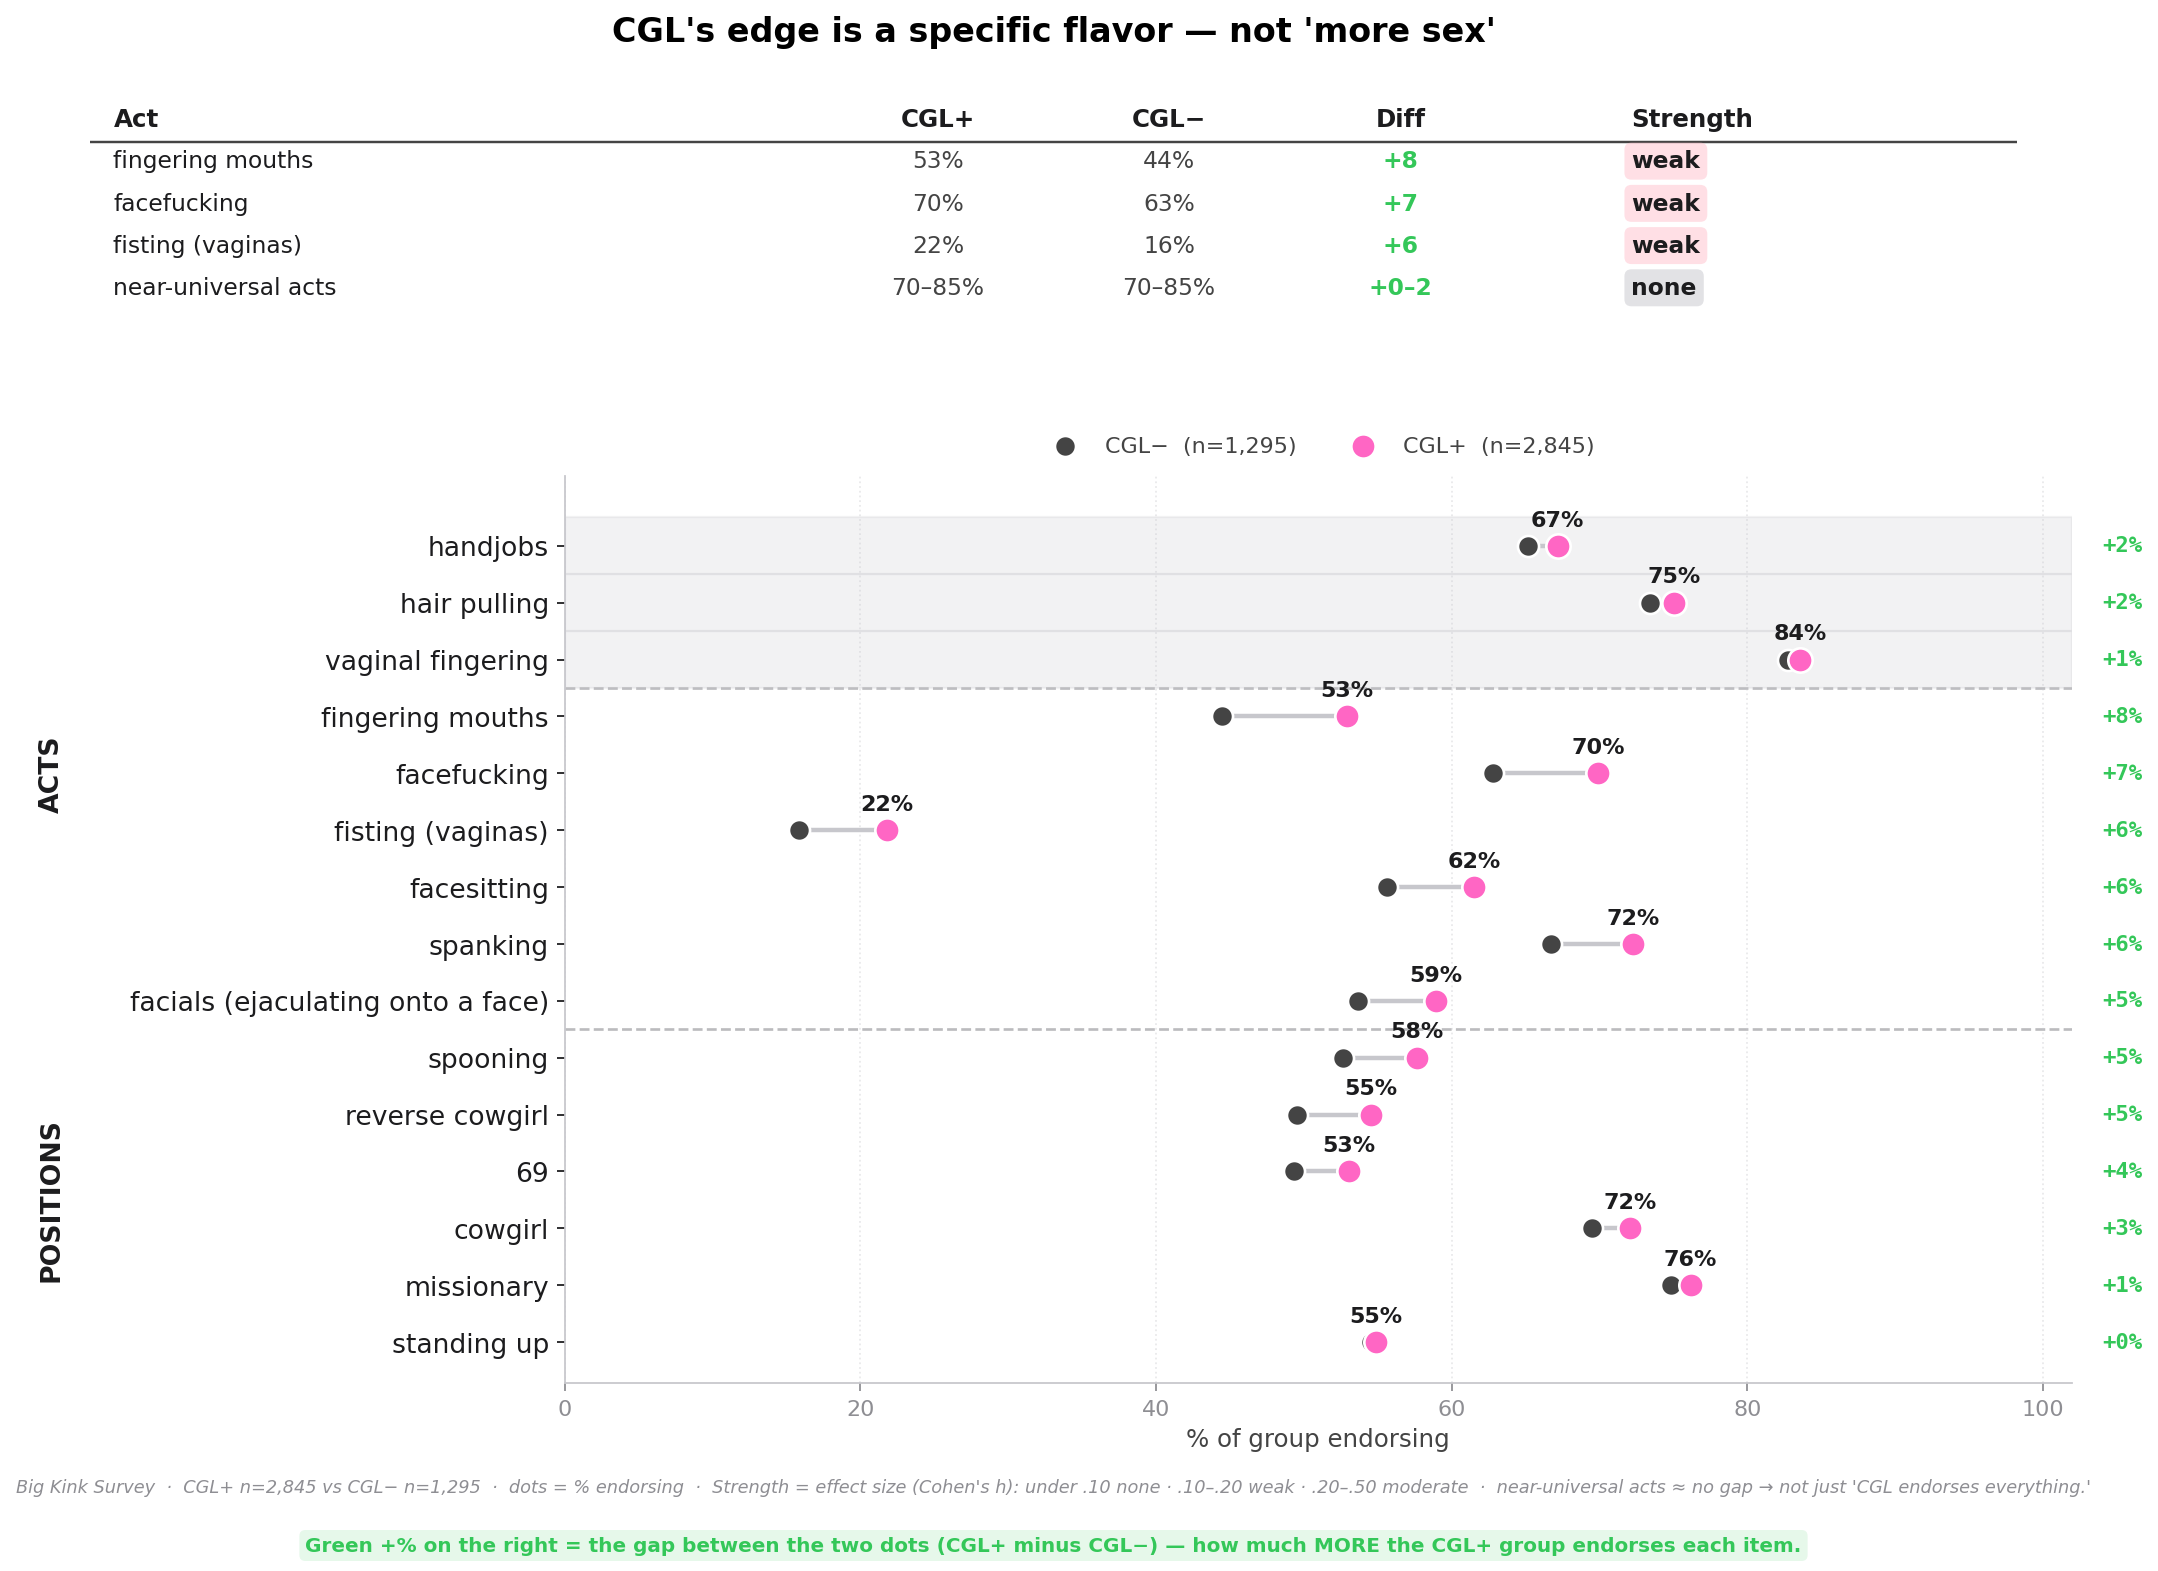
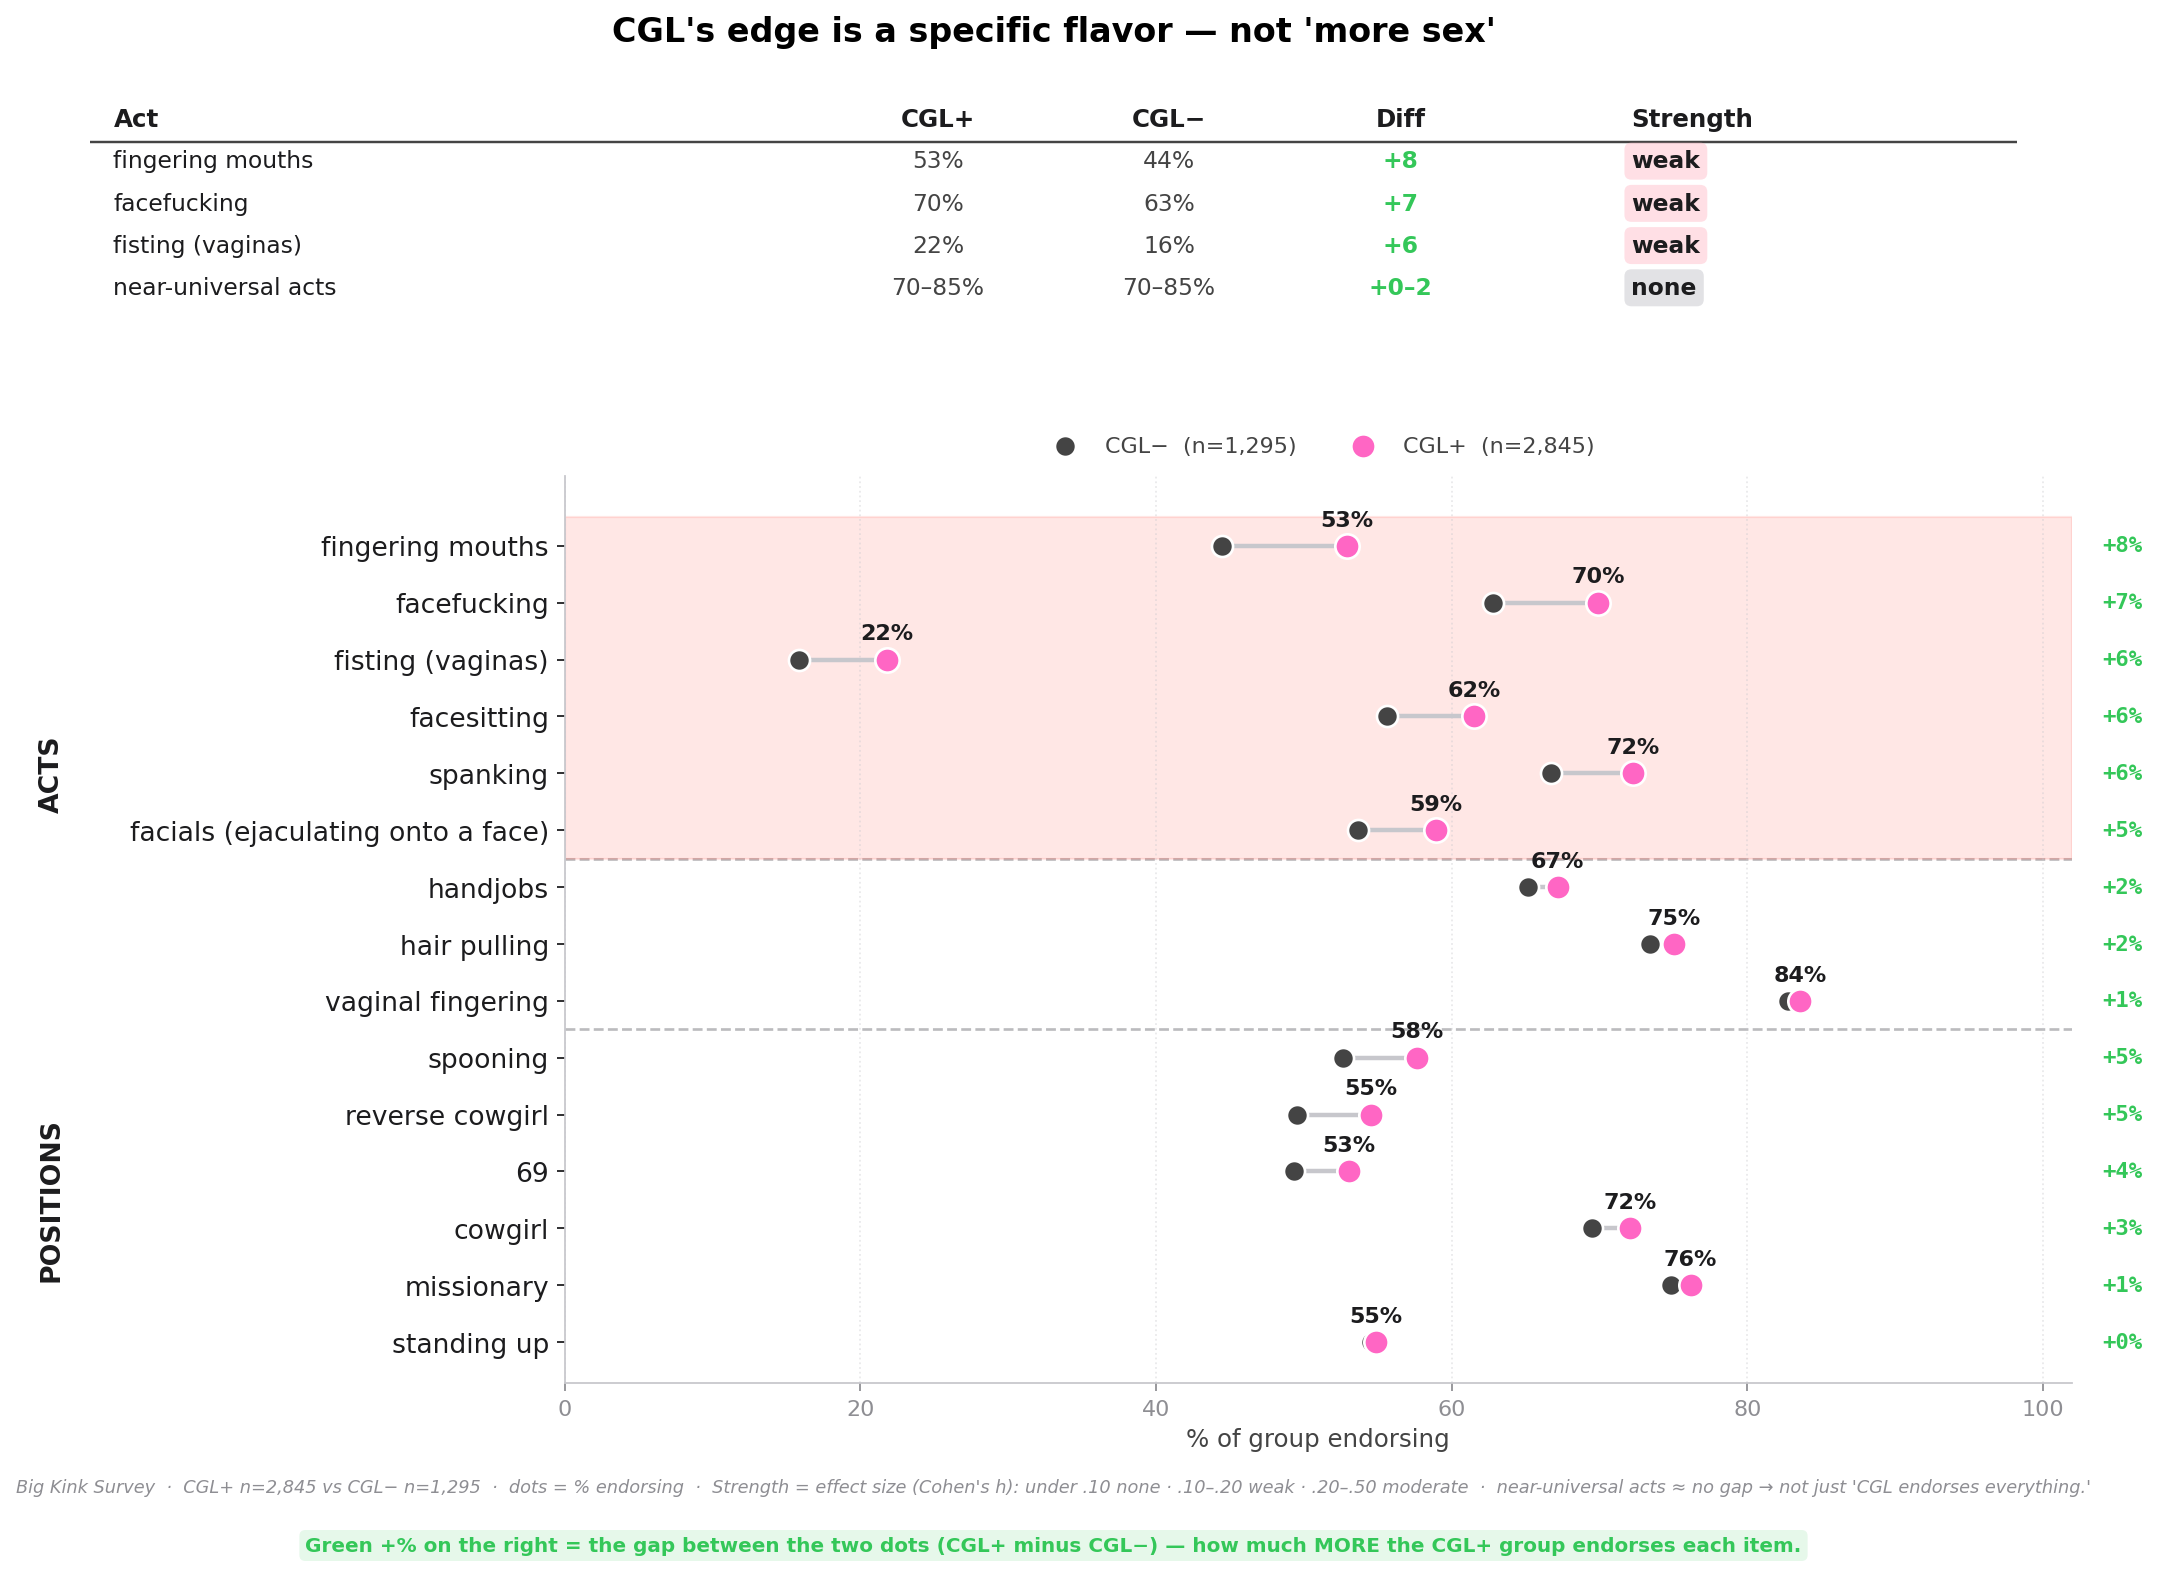
CGL report: prevalence!=patterning guidance; reorder NSFW-acts figure
- 1a report: add report-wide 'reading low percentages' guidance (prevalence
  vs patterning) + emotion-mirror low-share/consistent-shape callout.
- build_story_figures.py: stack distinctive acts ABOVE near-universal anchors
  (CGL's real edge reads at top); single red highlight band over the
  distinctive block instead of a shaded anchor band.

Changed region(s): [[0.0621, 0.3119, 0.9625, 0.655], [0.5589, 0.3119, 0.652, 0.3743], [0.8072, 0.6238, 0.8383, 0.655]]

diff --git a/build_story_figures.py b/build_story_figures.py
@@ -1087,19 +1087,20 @@ def figure_nsfw_acts_positions(nsfw: pd.DataFrame) -> pd.DataFrame:
                    .sort_values("gap", ascending=False).head(6).copy())
     pos_top = pos_stats.sort_values("gap", ascending=False).head(min(6, len(pos_stats))).copy()
 
-    # Stack bottom→top: positions · distinctive acts · near-universal anchors (flat, on top).
-    # Within each block, order by gap (numeric difference) — ascending sort puts the
-    # LARGEST gap at the TOP of its block (fingering mouths leads the distinctive acts;
-    # handjobs leads the near-universal ones).
+    # Stack bottom→top: positions · near-universal anchors (flat) · distinctive acts (on top).
+    # Distinctive acts (facefucking etc.) sit ABOVE the near-universal anchors (handjobs etc.)
+    # so CGL's real edge reads at the top. Within each block, order by gap (numeric
+    # difference) — ascending sort puts the LARGEST gap at the TOP of its block
+    # (fingering mouths leads the distinctive acts; handjobs leads the near-universal ones).
     pos_block = pos_top.sort_values("gap", ascending=True)
     dist_block = distinctive.sort_values("gap", ascending=True)
     anchor_block = anchors.sort_values("gap", ascending=True)
-    plot_df = pd.concat([pos_block, dist_block, anchor_block], ignore_index=True)
+    plot_df = pd.concat([pos_block, anchor_block, dist_block], ignore_index=True)
 
-    # Family-level geometry: keep both separators (baseline vs distinctive, acts vs
-    # positions), but label each family ONCE, centered, on the left.
+    # Family-level geometry: keep both separators (acts vs positions, anchors vs
+    # distinctive), but label each family ONCE, centered, on the left.
     sep_pos = len(pos_block) - 1
-    sep_dist = len(pos_block) + len(dist_block) - 1
+    sep_dist = len(pos_block) + len(anchor_block) - 1
     pos_label_y = (len(pos_block) - 1) / 2.0
     acts_label_y = (len(pos_block) + len(plot_df) - 1) / 2.0
 
@@ -1118,9 +1119,12 @@ def figure_nsfw_acts_positions(nsfw: pd.DataFrame) -> pd.DataFrame:
     )
     ax.set_xticks([0, 20, 40, 60, 80, 100])
 
-    # Shade the anchor band so the "flat baseline" reads at a glance.
-    for i in range(len(pos_block) + len(dist_block), len(plot_df)):
-        ax.axhspan(i - 0.5, i + 0.5, color=INK["hairline"], alpha=0.22, zorder=0)
+    # Highlight the top band — the distinctive face/mouth/control acts (CGL's real edge) — in red.
+    # One continuous span (like 6b's cluster band), NOT a per-row loop — adjacent spans
+    # leave faint seam lines between rows; a single span reads as one clean block.
+    dist_lo = len(pos_block) + len(anchor_block)
+    dist_hi = len(plot_df) - 1
+    ax.axhspan(dist_lo - 0.5, dist_hi + 0.5, color=SEMANTIC["bad"], alpha=0.12, zorder=0)
 
     # Summary table (top): the few acts that lead + the flat baseline, with strength.
     top3 = distinctive.sort_values("gap", ascending=False).head(3)

diff --git a/1a_CGL_Story_and_Report.md b/1a_CGL_Story_and_Report.md
@@ -39,6 +39,8 @@ CGL (Caregiving dynamics) is a **relational kink structured around one partner c
 
 **Multiple-comparison & CI policy.** The distribution/gap tables (Chapters 2, 4, 5, 6-endorsements) are **descriptive** — per-item effect sizes with no per-cell significance test, because the substantive question is *which items drive the difference*, not whether a 15-category table differs overall. The one place a formal family of tests is run — the 18-item **arousal scale** (Chapter 6) — carries **Benjamini-Hochberg FDR correction** and Wald 95% CIs on every odds ratio. CIs are reported where a test is run; gap tables are labeled descriptive.
 
+**Reading low percentages (prevalence ≠ patterning).** Many cells are small in absolute terms — single-pick items impose a 1/n floor (~20 emotions → even a *modal* pick caps ~25%), and multi-select items inherit low base rates. **A low % is not a weak signal.** Separate two quantities: *prevalence* (how common — the %) and *patterning* (does the signal align in the predicted direction, tightly estimated). The load-bearing evidence in every low-% table here is **patterning** — directional consistency (the D/S mirror, Ch. 2) and co-movement across linked items (the scene cluster, Ch. 6) — **not the height of any single bar**. Under chance, low cells scatter; here they align systematically, and at n ≈ 800–4,000 each cell is tightly estimated (95% CI ±0.7–2.8pp). ∴ low-but-consistent ⇒ a *reliable minority* signal: the licensed claim is "a consistent signal toward X," never "most respondents want X." ⚠ do **not** attach a "small sample / interpret with caution" hedge to these cells — n is large and CIs are narrow; the smallness lives in the *share*, not the *certainty*.
+
 ---
 
 ## Findings
@@ -362,6 +364,8 @@ Splitting CGL-positive respondents by D/S preference exposes the complementarity
 | Dominant (n=845)     |               5.8 |          14.8 |                 20.1 |              4.2 |
 
 _Cells are % among responders to each emotion item, so subgroup n's are the emotion-item responders within each D/S camp (sum ≈ the 2,777 who answered the D/S item)._
+
+> ⚠ **Low share, consistent shape — read the mirror, not the height.** Absolute shares are modest (top cells ~25%, off-direction cells 1.6–3.4%) — expected from a forced single pick over ~20 emotions, so these are *minority* top-picks, not majorities. The finding is the **role-flip mirror**: submissive self-powerless 25.7 / partner-powerful 24.7 ↔ dominant partner-powerless 20.1 / self-powerful 14.8, with the off-direction cells near-zero **and tightly estimated** (n ≈ 1,200; 95% CI ±0.7–1.0pp). Four cells flipping exactly by role is not noise — it is the asymmetry. Licensed claim: *a consistent complementary structure by role*, not *most CGL respondents want a given emotion*. (Per the report-wide low-% policy: prevalence ≠ patterning.)
 
 The submissive and dominant rows are near-perfect mirror images: each camp wants one party powerless and the other powerful, in opposite directions (submissive: self-powerless 25.7 / partner-powerful 24.7; dominant: partner-powerless 20.1 / self-powerful 14.8). The switch/equal middle is roughly balanced. This is the mechanism behind the "bidirectional asymmetry" framing and Highlight 2's mirror figure, and it is consistent with Chapter 3 — CGL+ contains substantial dominant and switch minorities, not only submissives. Pooling the three rows partially cancels the opposing directions, which is why the aggregate `otherfeel1most` gaps look small and bidirectional.
 
